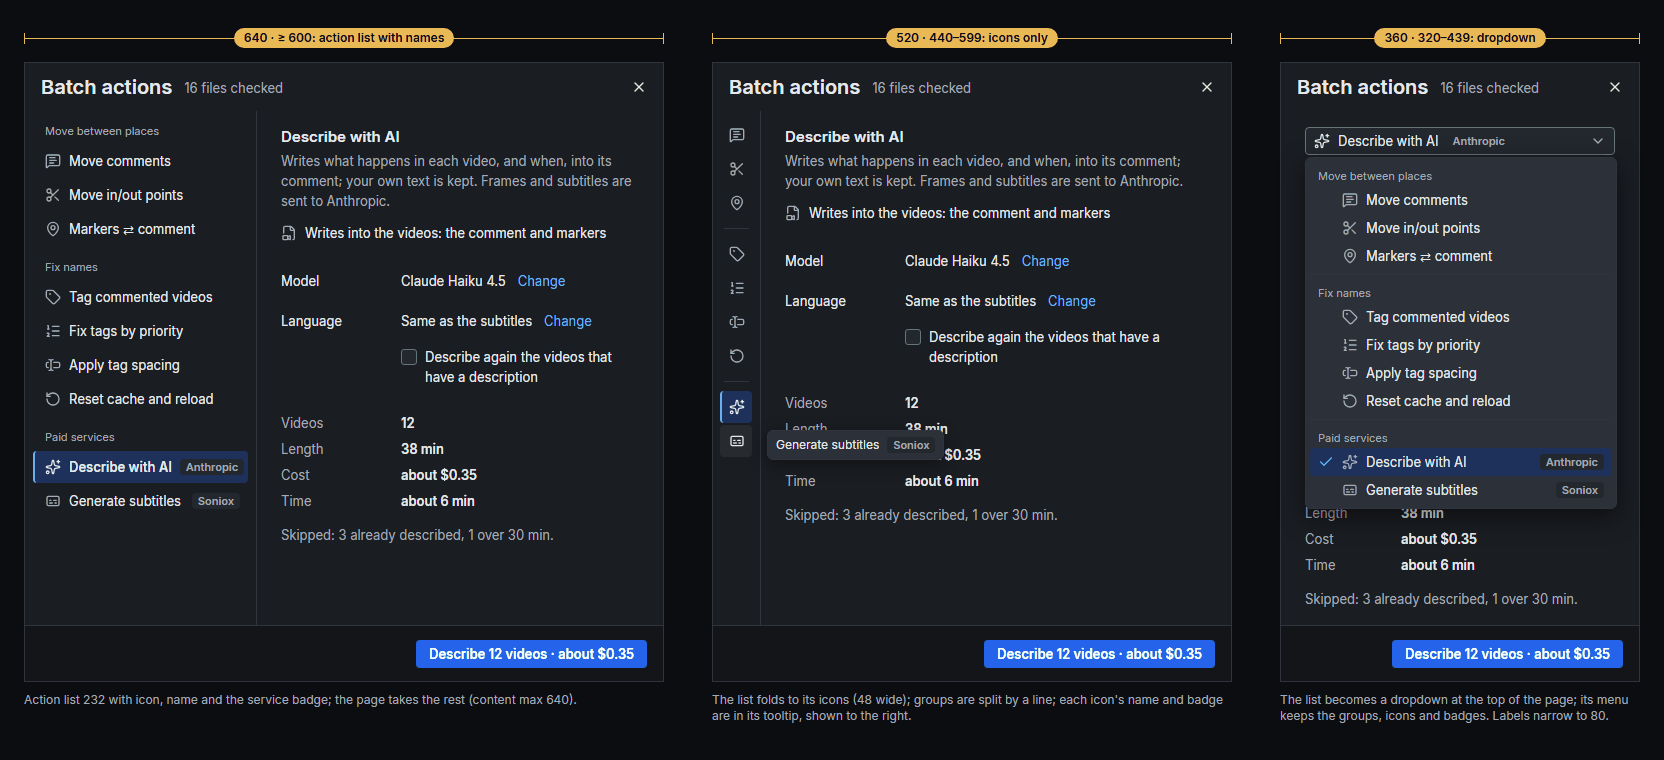
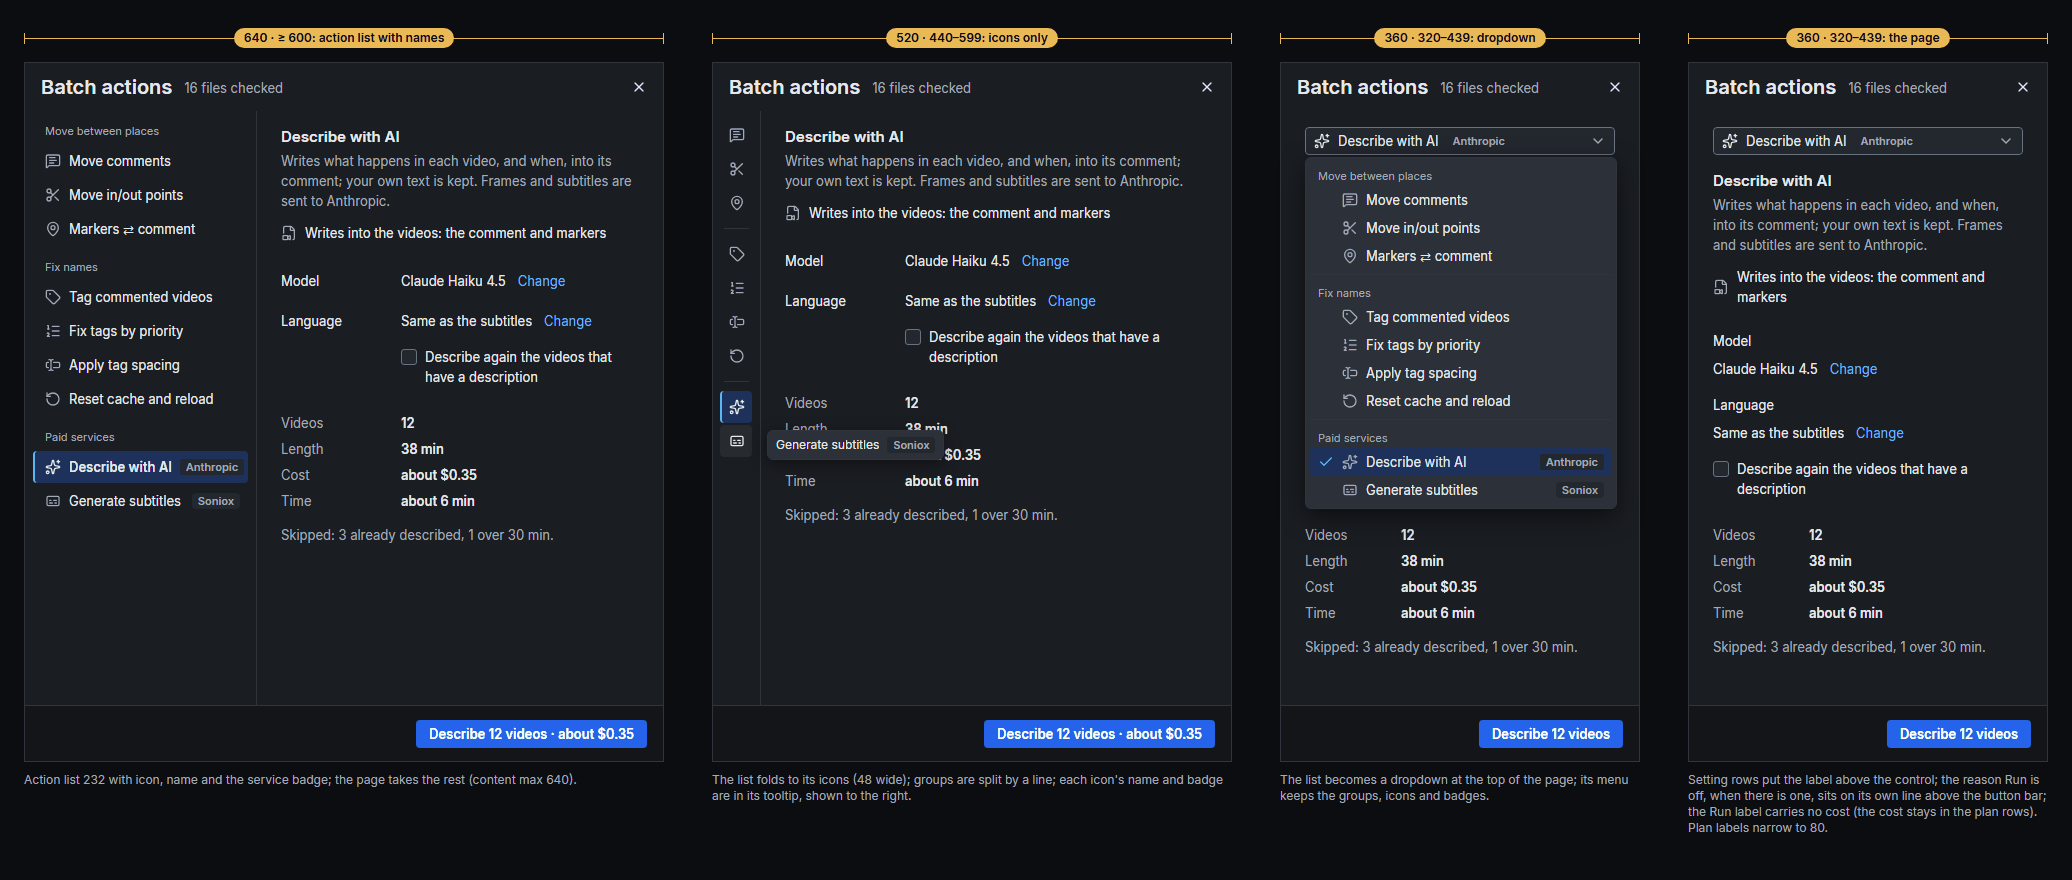
Design system §13: controls bar folds by its measured widths
Review round on §13: the fold thresholds are now computed from the
groups' widths (596/480/416/372), the notice uses the free space or a
pill, and the mockups show every step. Also: timeline 24-34, default
columns at 1152, tag grid 137 at 320, Esc order as today, lock line and
disabled batch x, search bar sizes, "Folder tags" caption only with two
groups, fourth "not reached" figure, today's splitter minimums.

diff --git a/docs/design/design-system.md b/docs/design/design-system.md
@@ -814,7 +814,7 @@ Today, for comparison (screenshots of the app):
 │ picture                   ║ search · filter       ║ tag search                           │
 │   side list (overlay)     ║ rows                  ║ starred strip                        │
 │ subtitle strip (48)       ║                       ║ tag grid                             │
-│ timeline (24–32)          ║                       ║ order strip (32)                     │
+│ timeline (24–34)          ║                       ║ order strip (32)                     │
 │ controls bar (32)         ║ toolbar (32)          ║ file name card · comment             │
 └───────────────────────────╨───────────────────────╨──────────────────────────────────────┘
 ```
@@ -823,8 +823,8 @@ Today, for comparison (screenshots of the app):
   overlaps the neighbours by 6 px on each side, so a splitter takes 1 px of width, not 12; hover
   and drag show `border.control` and the resize cursor. Widths are the user's, remembered; the
   defaults and minimums are in §13.9 (video 320, file list 200, tags 320). Today the video pane has
-  a fixed width with no minimum and the right splitter keeps only 200 for the list and the tags
-  together: too narrow for the controls bar and a row of chips.
+  a fixed width with a minimum of 150 while dragging, the file list a minimum of 120, and the tags
+  area 200: too narrow for the controls bar and a row of chips.
 - The **video pane** is the column that grows and shrinks with the window (center stage, DI
   p. 232). Today the video pane keeps its width and the tags area takes the change
   (**behaviour**, #59).
@@ -879,6 +879,12 @@ at the top of the file list says why ("Locked while Describe with AI runs").
 | the action list and every control of the action page | Cancel, and the job's own progress |
 | Open a folder, the batch toggle, Settings' *Update and restart* | the rest of Settings |
 | the video pane (no file is open: its empty state) and F5 | – |
+| the batch panel's `x` (disabled, tooltip "Cancel the action first"; Esc cancels, §13.2) | – |
+
+The **lock line** is a 28 px row at the top of the file list, above the search field, `bg.raised`,
+padding 0×8: `lock` 14 and the sentence in `secondary`. It pushes the list down (the rows keep
+their scroll position) and goes when the job ends. The batch page's button bar says the same on
+its left: "The folder is locked until it ends".
 
 Working on the folder while a job runs (at least previewing files) is #29, not this spec.
 
@@ -892,15 +898,15 @@ until the next action. All their texts are translated (today five are English-on
 |---|---|---|
 | 1 | a menu, dropdown list or popover is open | closes it |
 | 2 | a field has focus | a search field with text is cleared; any other field loses focus (its text is kept) |
-| 3 | a file is being renamed | cancels the rename |
-| 4 | a marker row is open | closes it (the name typed so far is kept) |
+| 3 | a marker row is open | closes it (the name typed so far is kept) |
+| 4 | a file is being renamed | cancels the rename |
 | 5 | fullscreen | leaves it |
 | 6 | the file search or the tag search has text | clears both (today's Esc, also in batch mode) |
 | 7 | a batch result is shown | Close |
 | 8 | a batch job runs | Cancel (the job stops after the current file; nothing asks) |
 | 9 | batch mode | leaves it |
 
-Today Esc stops at step 6 (in the order rename → marker row → fullscreen → searches) and never
+Today Esc does steps 3–6 in this order and never
 touches batch mode; steps 7–9 are **behaviour** for #58.
 
 ### 13.3 Video pane
@@ -995,8 +1001,8 @@ click on a pin seeks there.
 playhead, counting from 500 ms before its start to 2 s after it (or its end, if later); among
 several, one already started wins over one coming up, then the latest start.
 
-**Marker keys** (they work even while a field has focus, except while a marker row is open; they
-are ignored with Ctrl or Alt held; F2's auto-repeat is ignored):
+**Marker keys** (they work even while a field has focus; they are ignored with Ctrl or Alt held;
+F2's auto-repeat is ignored; what an open marker row blocks is listed under the table):
 
 | Key | What it does |
 |---|---|
@@ -1019,17 +1025,18 @@ Renaming a marker is written live and is not undoable (today; #62 may change it)
 ![Controls bar](design-system/controls-bar.png)
 
 32 px, `bg.panel`, padding 0×8. Icon buttons 32×32 (§8.1) with the Lucide icons of §7, in
-**groups** separated by 12 px; buttons within a group 0 px apart (the 32 px squares touch):
+**groups** separated by 12 px; buttons within a group 0 px apart (the 32 px squares touch). From
+left to right, with the widths §13.9 folds by:
 
-| Group | Buttons (icon, tooltip with keys) |
+| Group (width) | Buttons (icon, tooltip with keys) |
 |---|---|
-| Transport | `rewind` "Back 10 s `F1`" · `play`/`pause` "Play `Space`" / "Pause `Space`" · `fast-forward` "Forward 10 s `F3`" |
-| In/out | text `[` "Set the in point `[`" · text `]` "Set the out point `]`" (text, as #44 says) |
-| Mark | `camera` "Save this frame `F12`" · `map-pin` "Add a marker `F2` (hold for a range)"; disabled with the reason "This file cannot hold markers" |
-| Time (#59) | `00:10 / 00:30` in `mono` `text.secondary`; a fixed width so it never moves |
-| Volume | `volume-2` icon 16 in `text.secondary` (not a button) · a 72 px slider (§8.8) |
-| Notice slot | flexible: takes the space left between Mark and Time; notices (§13.2) show here, cut with "…" and the full text in the tooltip |
-| Views | `captions` "Subtitle list" (only with subtitles) · `map-pin` "Marker list" with "`Shift`+`F1` / `Shift`+`F3` jump between markers" on its second line · `maximize-2`/`minimize-2` "Full screen `F5`" |
+| Transport (96) | `rewind` "Back 10 s `F1`" · `play`/`pause` "Play `Space`" / "Pause `Space`" · `fast-forward` "Forward 10 s `F3`" |
+| In/out (64) | text `[` "Set the in point `[`" · text `]` "Set the out point `]`" (text, as #44 says) |
+| Mark (64) | `camera` "Save this frame `F12`" · `map-pin` "Add a marker `F2` (hold for a range)"; disabled with the reason "This file cannot hold markers" |
+| Free space (flexible) | empty; notices (§13.2) show here when it is at least 120 wide, cut with "…" and the full text in the tooltip |
+| Time (104, #59) | `00:10 / 00:30` in `mono` `text.secondary`; a fixed width so it never moves |
+| Volume (96) | `volume-2` icon 16 in `text.secondary` (not a button), 8 px, a 72 px slider (§8.8); folded: a 32 px icon button `volume-2` that opens the slider in a popover |
+| Views (96) | `captions` "Subtitle list" (only with subtitles) · `map-pin` "Marker list" with "`Shift`+`F1` / `Shift`+`F3` jump between markers" on its second line · **More** `ellipsis` (only when something is folded) · `maximize-2`/`minimize-2` "Full screen `F5`" |
 
 - **Latched** (list shown, fullscreen): `state.selected` fill and the icon in `accent.text`
   (§8.1), not only a blue glyph.
@@ -1038,11 +1045,11 @@ Renaming a marker is written live and is not undoable (today; #62 may change it)
 - **Play/pause** shows the action the button will do (the media exception of §8.1), and must
   always match the player: today Space and a click on the picture can leave it showing the wrong
   symbol (**behaviour** bug, #59).
-- **Notice** (§13.2): an inline status in the notice slot, `text.secondary`, with an icon of its
+- **Notice** (§13.2): an inline status in the free space, `text.secondary`, with an icon of its
   kind: `camera` "Frame saved", `trash` "Marker deleted", `circle-alert` in `error` "Markers not
-  saved: the file is read-only or in use". It never pushes a button. When the slot is narrower than
-  120 (pane under 488, §13.9), the notice shows instead as a pill over the bottom-left of the
-  picture (`bg.overlay`, radius 6, padding 4×8), with the same lifetime.
+  saved: the file is read-only or in use". It never pushes a button. When the free space is under
+  120 (the pane is under about 716 with every group shown), the notice shows instead as a pill over
+  the bottom-left of the picture (`bg.overlay`, radius 6, padding 4×8), with the same lifetime.
 - **Narrow pane:** what gives way and when is in §13.9. The **More** button (`ellipsis`) sits just
   before fullscreen; its menu opens upward, lists each moved control with its icon, name and key,
   and marks a latched one with a `check`.
@@ -1132,9 +1139,10 @@ Renaming a marker is written live and is not undoable (today; #62 may change it)
 ![File list](design-system/file-list.png)
 
 #### 13.4.1 Search and filter
-- A search field (§8.6) across the column with the placeholder "Find a file" and `search` inside on
-  the left; `x` "Clear `Esc`" when not empty. It searches the whole file name, tags included.
-- Next to it the **Filter** button: a secondary icon button `list-filter`; when filters are on, the
+- A 40 px bar, padding 6×8: a search field (§8.6, 28 high) across the column with the placeholder
+  "Find a file" and `search` inside on the left; `x` "Clear `Esc`" when not empty. It searches the
+  whole file name, tags included. The tag search above the grid is the same bar.
+- 6 px after it the **Filter** button: a 28×28 secondary icon button `list-filter`; when filters are on, the
   count sits inside the button after the icon (`badge.accent`, "2"); pressed look while its menu is
   open; tooltip "Show only…". Today it is a dropdown whose label changes.
 - The filter **menu** (§8.14) lists: Untagged, With subtitles, With a comment, With markers. Each
@@ -1151,7 +1159,7 @@ Renaming a marker is written live and is not undoable (today; #62 may change it)
 ```
  ┃ [✓] SRT  pick · wide · night · 00:03 · 00:21 · MVI_0410.mp4          ⌖2
  ┃          City lights over Europe, keep this one
-   └check (batch only, 28)  └status (24)  └tags · in/out · name (mono)   └marker count
+   └check (batch only, 28)  └status (32)  └tags · in/out · name (mono)   └marker count
 ```
 
 Row: 52 px (two lines), padding 4×8, full width up to the gutter.
@@ -1253,7 +1261,8 @@ handle, comment. Columns are separated by the gaps of §5.
 - **Order = priority.** The grid lists the folder's tags in their order, left to right, top to
   bottom; the same order is the order of the tags in file names. Unsaved tags come first, under a
   `caption` "Not in the folder's tags"; then the folder's tags under "Folder tags" — the two
-  groups separated by 8 px, so the split is visible without a line. The grid itself is not
+  groups separated by 8 px, so the split is visible without a line. With no unsaved tags there is
+  one group and neither caption is shown. The grid itself is not
   reordered by dragging; the order changes in the file name card (§13.5.6).
 - **Columns:** every column is as wide as the widest chip of the **whole** tag list, not of the
   filtered one, so the grid does not reflow while typing a search (today it does); the limits are in
@@ -1482,7 +1491,8 @@ The job's page stays until Close:
    - stopped by an error: error notice "Stopped: the Anthropic account has no credit left" with the
      fix (*Add credit* for billing, *Open Settings* for a key) — the reason is not repeated below;
    - finished with some failures: warning notice "Done with problems: 3 of 12 files not done".
-2. **Figures:** three figures in a row — changed, unchanged, not done — each a `heading` number over
+2. **Figures:** three figures in a row — changed, unchanged, not done — and a fourth, "not reached"
+   (`text.secondary`), when the job stopped early; each a `heading` number over
    a `secondary` word; "not done" in `error` only when above 0.
 3. **Spend** (paid actions): a key-value row "Cost: $0.31 with Claude Haiku 4.5" ("at least" when a
    timeout may have been billed).
@@ -1576,7 +1586,7 @@ Colors that belong to the content, not to the chrome, and are tokens too (§3.3)
 | | Width | Height | Notes |
 |---|---|---|---|
 | Minimum | 900 | 560 | 320 + 200 + 320 of columns + 2 splitters of 1 px = 842; the other 58 go to the video pane (378) |
-| Default | 1440 × 800, but at most 90 % of the work area (1152 × 612 on the reference screen) | | columns: at 1440 or more 600 / 360 / the rest; narrower, about 440 / 300 / the rest (≈ 516 at 1280) |
+| Default | 1440 × 800, but at most 90 % of the work area (1152 × 612 on the reference screen) | | columns: at 1440 or more 600 / 360 / the rest; narrower, 440 / 300 / the rest (410 at 1152, the default on the reference screen) |
 | Maximum | none | none | extra width goes to the video pane first |
 | Today | 1200 × 600 | | video 460, file list 200, no minimum window size (**behaviour**, #59) |
 
@@ -1590,21 +1600,28 @@ minimum.
 
 **Video pane** (min 320, no max)
 
-The bar folds by its **measured** content (buttons 32, group gaps 12, padding 8 each side,
-the time readout 96 with the subtitle list button; the notice slot needs at least 120). The
-thresholds, with every button present:
+The controls bar folds by the widths of §13.3.5: padding 16 + Transport 96 + In/out 64 + Mark 64
++ Time 104 + Volume 96 + Views 96 + five gaps of 12 = **596** with everything shown. Each step
+below takes away what the previous width no longer fits:
 
-| Pane width | Controls bar | Timeline, lists |
+| Pane width | Controls bar | Needs |
 |---|---|---|
-| ≥ 592 | all groups (§13.3.5) | side list 2/5 of the pane, max 360 |
-| 488–591 | the time readout hides (the timeline's hover tooltip still shows times) | side list 2/5 from 600; below 600 it covers the picture with its own `x` |
-| 416–487 | the volume slider folds into its icon (a click opens the slider in a popover); notices show as the pill over the picture | same |
-| 372–415 | the Mark group (`camera`, `map-pin`) moves into **More** | same |
-| 320–371 | the Views group (subtitle list, marker list) moves into **More**; transport, in/out and fullscreen stay | the marker label is cut to fit, at least 12 characters |
-| Height | the picture keeps at least 180; below that, the subtitle strip goes first (subtitles move to the side list) | |
+| ≥ 596 | all groups (§13.3.5) | 596 |
+| 480–595 | the time readout hides (the timeline's hover tooltip still shows times) | 596 − 104 − 12 = 480 |
+| 416–479 | also the volume slider folds into its icon button | 480 − 64 = 416 |
+| 372–415 | also the Mark group (`camera`, `map-pin`) moves into **More** (More appears just before fullscreen) | 416 − 64 − 12 + 32 = 372 |
+| 320–371 | also the subtitle and marker list buttons move into **More**; transport, in/out, the volume icon, More and fullscreen stay | 372 − 64 = 308 |
 
-Without subtitles (no subtitle list button) each threshold is 32 lower. The mockups show the pane at
-640, 520, 440 and 340.
+Without subtitles (no subtitle list button) each threshold is 32 lower. Notices use the free space
+when it is at least 120, otherwise the pill over the picture (§13.3.5).
+
+- **Side list:** 2/5 of the pane, at most 360, when the pane is 600 or wider; narrower, it covers
+  the whole picture with its own `x`.
+- **Marker label:** cut to fit the pane, at least 12 characters.
+- **Height:** the picture keeps at least 180; below that, the subtitle strip goes first (subtitles
+  move to the side list).
+
+The mockups show the pane at 640, 520, 440 and 340; the controls bar picture adds 740 and 390.
 
 Never hidden: play/pause, back/forward 10 s, `[` `]`, fullscreen, the timeline.
 
@@ -1623,9 +1640,9 @@ Never hidden: play/pause, back/forward 10 s, `[` `]`, fullscreen, the timeline.
 
 **Tags area** (min 320, no max)
 - **Grid:** column width = the widest chip of the tag list, but at most 240 (longer names are cut
-  with "…" inside the chip, full name in the tooltip) and at least 120. Columns = as many as fit,
-  and never fewer than **2**: under about 480 the width becomes min(widest, 240, (area − gutter −
-  4) / 2), so at 320 two columns of 149. On a wide area many. Cells never stretch: extra width stays
+  with "…" inside the chip, full name in the tooltip). Columns = as many as fit,
+  and never fewer than **2**: when two would not fit, the width becomes min(widest, 240, (area − 24
+  padding − 14 gutter − 8 gap) / 2), so at 320 two columns of 137. On a wide area many. Cells never stretch: extra width stays
   at the right end of each row.
 - **Starred strip:** wraps like the grid; at most 3 rows, then "+N more" (§13.5.3).
 - **Order strip** (32 px): below 420 the two buttons become icon buttons (`arrow-up`, `arrow-down`)
